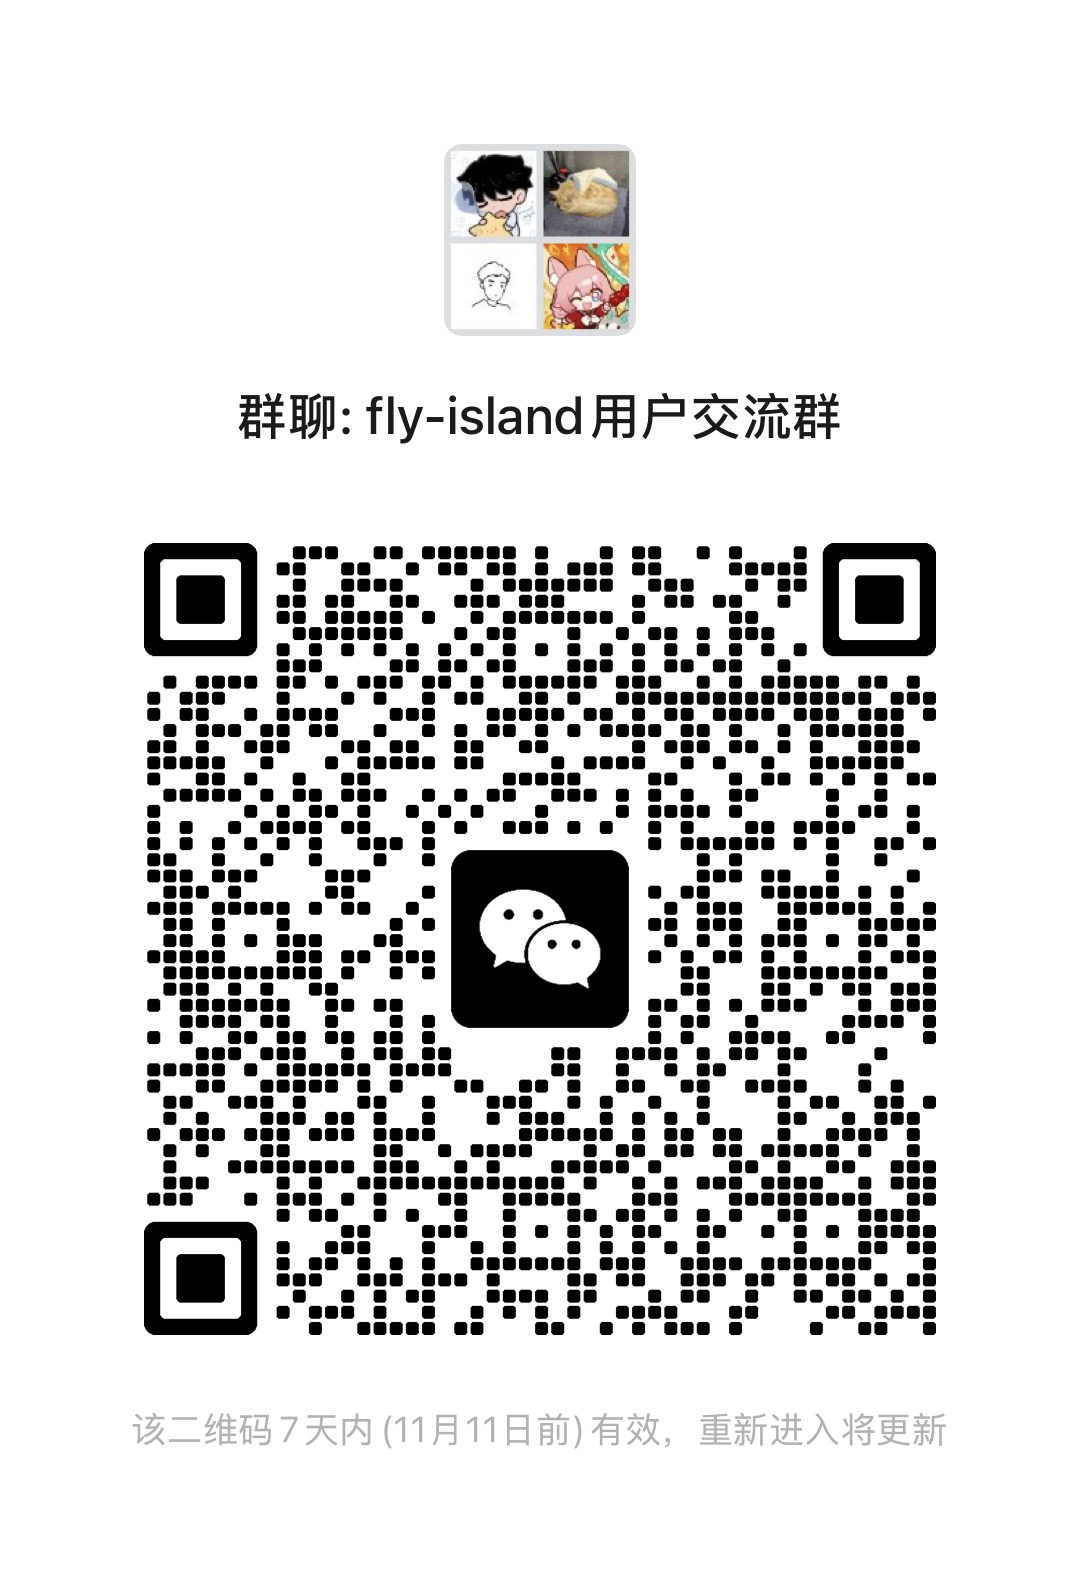
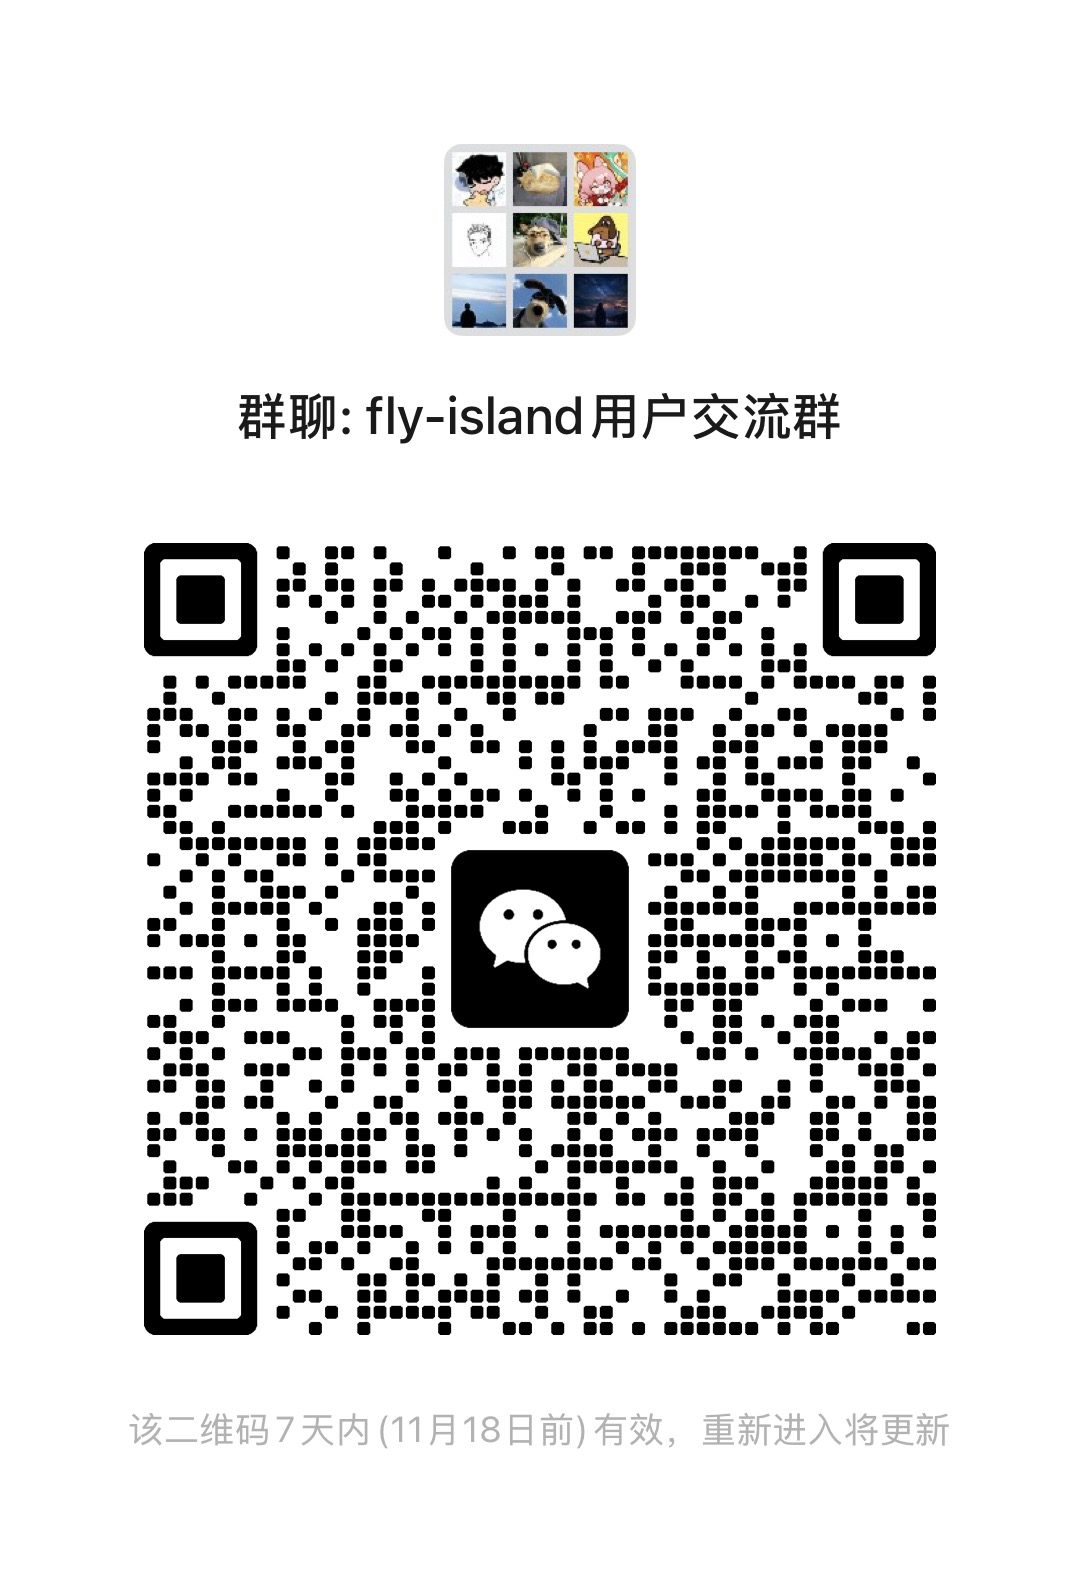
docs(readme): 更新微信交流群二维码，有效期至 11 月 18 日

diff --git a/README.en.md b/README.en.md
@@ -65,7 +65,7 @@ Join the **fly-island user group on WeChat** to discuss the app, report problems
   <img src="docs/assets/wechat-community.jpg" alt="QR code for the fly-island WeChat user group" width="360">
 </p>
 
-The QR code expires; the current image says it is **valid before November 11**. If it has expired, please [open an issue](https://github.com/flyl1u/fly-island/issues) to request an update.
+The QR code expires; the current image says it is **valid before November 18**. If it has expired, please [open an issue](https://github.com/flyl1u/fly-island/issues) to request an update.
 
 ## Build from source
 

diff --git a/README.md b/README.md
@@ -65,7 +65,7 @@ Fly Island 是一座轻量、无边框、始终置顶的悬浮岛。平时收在
   <img src="docs/assets/wechat-community.jpg" alt="fly-island 微信用户交流群二维码" width="360">
 </p>
 
-二维码有有效期，当前图片标注为 **11 月 11 日前有效**；若已失效，可通过 [Issue](https://github.com/flyl1u/fly-island/issues) 反馈以便更新。
+二维码有有效期，当前图片标注为 **11 月 18 日前有效**；若已失效，可通过 [Issue](https://github.com/flyl1u/fly-island/issues) 反馈以便更新。
 
 ## 从源码构建
 
